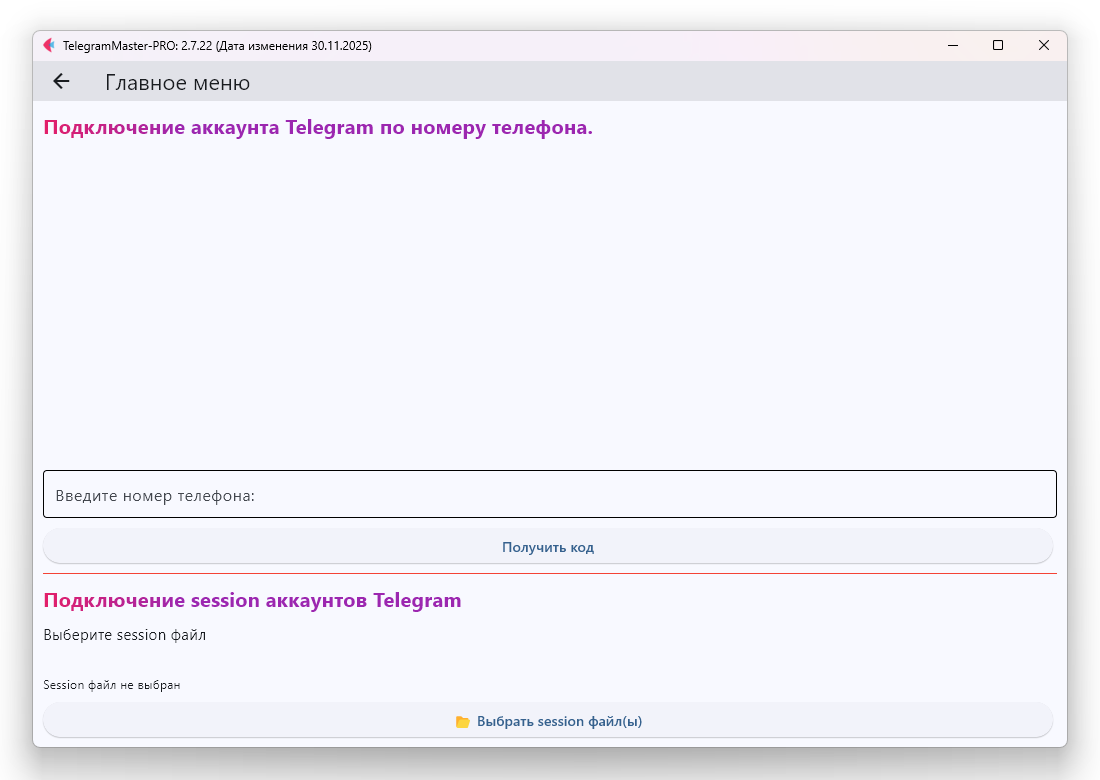
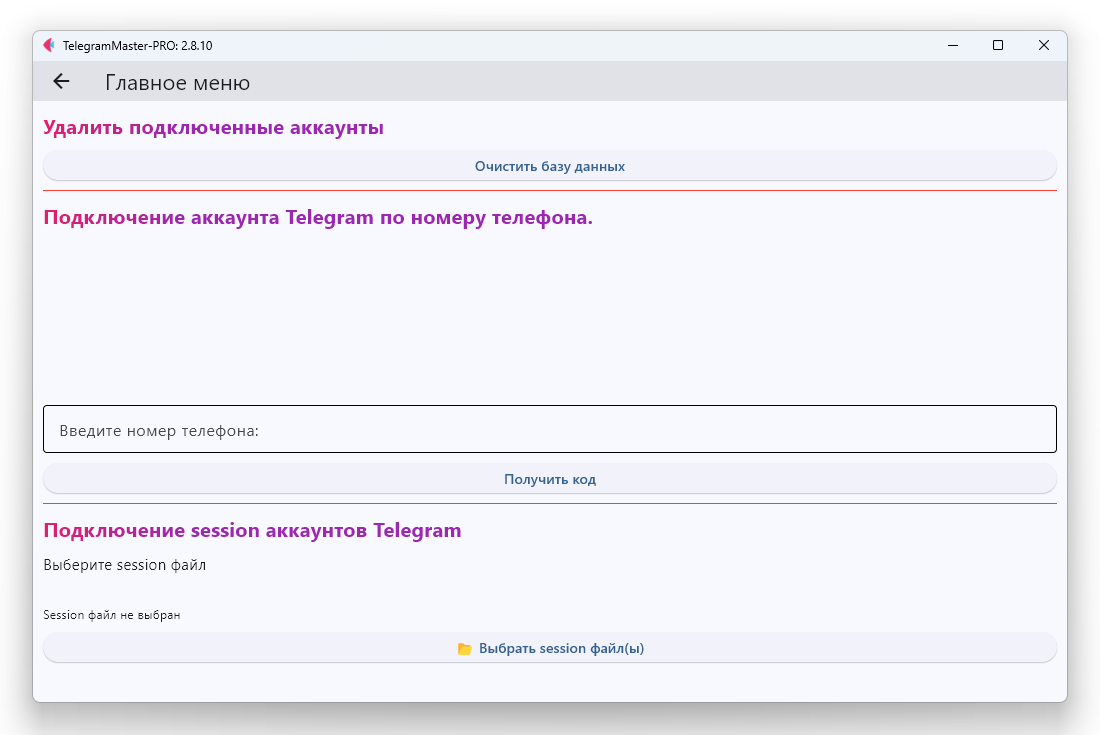
Формирование документации

diff --git a/docs/templates/connect_accounts.html b/docs/templates/connect_accounts.html
@@ -105,7 +105,7 @@
         <ol>
             {{ start_program(program_name) }}
             <li>
-                Запустить функцию «Подключение аккаунтов».
+                Запустить функцию «{{ account_connect }}».
                 <p style="text-align: center;">
                     <img src="/static/images/connect_accounts.png" alt="connect_accounts" width="60%">
                 </p>
@@ -142,7 +142,7 @@
         <ol>
             {{ start_program(program_name) }}
             <li>
-                Запустить функцию «Подключение аккаунтов».
+                Запустить функцию «{{ account_connect }}».
                 <p style="text-align: center;">
                     <img src="/static/images/connect_accounts.png" alt="connect_accounts" width="60%">
                 </p>
@@ -176,34 +176,34 @@
         <ol>
             {{ start_program(program_name) }}
             <li>
-                Запустить функцию «Подключение аккаунтов».
+                Запустить функцию «{{ account_connect }}».
                 <p style="text-align: center;">
                     <img src="/static/images/connect_accounts.png" alt="connect_accounts" width="60%">
                 </p>
             </li>
             <li>
-                Выбрать session файл аккаунта, который хотите подключить к {{program_name}}.
+                Запустить функцию «{{ delete_connected_accounts }}».
                 <p style="text-align: center;">
-                    <img src="/static/images/connect_accounts_2.png" alt="Telegram Master" width="60%">
+                    <img src="/static/images/connect_accounts_5.png" alt="connect_accounts" width="60%">
                 </p>
             </li>
         </ol>
         <p>После успешного подключения в базу данных будет записана строковая сессия в таблицу account.</p>
-        <div
-                style="border: 2px solid #f5c6cbf5; background-color: #f8d7da; padding: 20px; border-radius: 10px; margin: 20px 0; font-family: Arial, sans-serif;">
-            <p style="color: #721c24; margin: 0; font-size: 16px;">
-                ⚠ При использовании номеров телефонов из США рекомендуется использовать VPN или Proxy для
-                безопасности.
-                По опыту пользователей <b>{{program_name}}</b>, рекомендуемыми странами для использования являются
-                Россия, США, Украина, Киргизия, Таджикистан, Узбекистан, Беларусь, Иран, Грузия и Армения, в то
-                время как страны Азии, такие как Индонезия, не рекомендуются.
-            </p>.
-        </div>
-
-
-        <!-- Кнопка "Вверх" -->
-        <a href="#" id="to-top" title="Вверх"><i class="fas fa-chevron-up" aria-hidden="true"></i></a>
+        <!--        <div-->
+        <!--                style="border: 2px solid #f5c6cbf5; background-color: #f8d7da; padding: 20px; border-radius: 10px; margin: 20px 0; font-family: Arial, sans-serif;">-->
+        <!--            <p style="color: #721c24; margin: 0; font-size: 16px;">-->
+        <!--                ⚠ При использовании номеров телефонов из США рекомендуется использовать VPN или Proxy для-->
+        <!--                безопасности.-->
+        <!--                По опыту пользователей <b>{{program_name}}</b>, рекомендуемыми странами для использования являются-->
+        <!--                Россия, США, Украина, Киргизия, Таджикистан, Узбекистан, Беларусь, Иран, Грузия и Армения, в то-->
+        <!--                время как страны Азии, такие как Индонезия, не рекомендуются.-->
+        <!--            </p>.-->
     </div>
+
+
+    <!-- Кнопка "Вверх" -->
+    <a href="#" id="to-top" title="Вверх"><i class="fas fa-chevron-up" aria-hidden="true"></i></a>
+</div>
 </div>
 </body>
 

diff --git a/docs/templates/menu.html b/docs/templates/menu.html
@@ -1,6 +1,6 @@
 <!-- menu.html -->
 <div class="sidebar">
-{% from 'macros/common_steps.html' import start_program, step_connect_accounts with context %}
+    {% from 'macros/common_steps.html' import start_program, step_connect_accounts with context %}
     <!-- Правильный способ подключения CSS -->
     <link rel="stylesheet" href="/static/css/telegram.css">
     <a href="https://t.me/master_tg_d" target="_blank">
@@ -50,9 +50,7 @@
     <a href="{{ url_for('creating_groups') }}">👥 Создание групп (чатов)</a>
     <a href="{{ url_for('we_are_winding_up_post_views') }}">👁🗨 Накручиваем просмотры постов</a>
     <a href="{{ url_for('launch_telegrammaster') }}">🚀 Запуск {{ program_name }}</a>
-
     <a href="{{ url_for('importing_a_list_of_parsed_data') }}">{{importing_a_list_of_parsed_data}}</a>
-
     <a href="{{ url_for('telegram_limits') }}">📊 Лимиты Telegram</a>
     <a href="{{ url_for('working_with_errors_telegrammaster') }}">❗ Работа с ошибками</a>
 </div>

diff --git a/docs/app.py b/docs/app.py
@@ -243,7 +243,8 @@ async def connect_accounts(request: Request):
             "program_name": PROGRAM_NAME,
             "connecting_accounts_by_phone_number": translations["ru"]["account_connect_menu"]["connecting_accounts_by_phone_number"],
             "connecting_session_accounts": translations["ru"]["account_connect_menu"]["connecting_session_accounts"],
-            "delete_connected_accounts": translations["ru"]["account_connect_menu"]["delete_connected_accounts"]
+            "delete_connected_accounts": translations["ru"]["account_connect_menu"]["delete_connected_accounts"],
+            "account_connect": translations["ru"]["menu"]["account_connect"]
         }
     )
 
